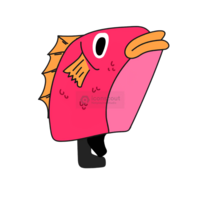
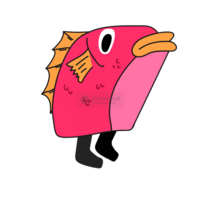
анимация персонажа

Changed region(s): [[0.18, 0.12, 0.9, 0.87], [0.39, 0.48, 0.45, 0.54]]

diff --git a/main.cpp b/main.cpp
@@ -10,18 +10,19 @@
 int main() 
 {
     sf::VideoMode desktop = sf::VideoMode::getDesktopMode();
-    int WIDTH = static_cast<const int>(desktop.width * 0.9);
-    int HEIGHT = (WIDTH * 943-WIDTH*943%1880)/1880;
+    int WIDTH = static_cast<int>(desktop.width * 0.9);
+    const int HEIGHT = (WIDTH * 943 - WIDTH * 943 % 1880) / 1880;
     //int WIDTH = 1880, HEIGHT = 943;
+    int i = 100;
     int x = WIDTH / 7;
     int y = HEIGHT / 7;
-    int x1 = WIDTH / 25;
-    int y1 = HEIGHT / 10;
-    int Coord[32][2] = { {x, y},{2 * x, y + 10},{3 * x, y + 20}, {4 * x, y + 30},{5 * x, y + 40},{6 * x, y + 50},{7 * x, y + 60},{8 * x, y + 70},
-    {8 * x, 2 * y},{7 * x, 2 * y + 10},{6 * x, 2 * y + 20},{5 * x, 2 * y + 30},{4 * x, 2 * y + 40},{3 * x, 2 * y + 50},{2 * x, 2 * y + 60}, {x, 2 * y + 70},
-    {x, 3 * y},{2 * x, 3 * y + 10},{3 * x, 3 * y + 20}, {4 * x, 3 * y + 30},{5 * x, 3 * y + 40},{6 * x, 3 * y + 50},{7 * x, 3 * y + 60},{8 * x, 3 * y + 70},
-    {8 * x, 4 * y},{7 * x, 4 * y + 10},{6 * x, 4 * y + 20},{5 * x, 4 * y + 30},{4 * x, 4 * y + 40},{3 * x, 4 * y + 50},{2 * x, 4 * y + 60}, {x, 4 * y + 70} };
-    
+    int s = WIDTH / 110;
+    int Coord[32][2] = { {WIDTH / 3.5, 8*s},{WIDTH / 3.5+9*s, 9*s},{WIDTH / 3.5 + 18 * s, 10*s}, {WIDTH / 3.5 + 27 * s, 11*s},{WIDTH / 3.5 + 36 * s, 12*s},
+        {WIDTH / 3.5 + 45 * s, 13*s},{WIDTH / 3.5 + 53 * s, 18 * s},{WIDTH / 3.5 + 48 * s, 25 * s},{WIDTH / 3.5 + 40 * s, 22 * s}, {WIDTH / 3.5 + 31 * s, 21 * s},{WIDTH / 3.5 + 22 * s, 20 * s},
+        {WIDTH / 3.5 + 13 * s, 19 * s},{WIDTH / 3.5 + 4 * s, 18 * s},{WIDTH / 3.5 -5 * s, 17 * s},{WIDTH / 3.5 - 12 * s,  22 * s},{WIDTH / 3.5 - 5 * s,  27 * s}, {WIDTH / 3.5 +4 * s,  28 * s},
+{WIDTH / 3.5 + 13 * s,  29 * s},{WIDTH / 3.5 + 22 * s,  30 * s},{WIDTH / 3.5 + 31* s,  31* s}, {WIDTH / 3.5 + 40 * s,  32 * s},{WIDTH / 3.5 + 48 * s,  36 * s},{WIDTH / 3.5 + 43 * s,  43 * s},{WIDTH / 3.5 + 34 * s,  42 * s},{WIDTH / 3.5 + 25 * s,  41 * s},
+{WIDTH / 3.5 + 16 * s,  40 * s},{WIDTH / 3.5 + 7 * s,  39 * s},{WIDTH / 3.5 -2 * s,  38 * s},{WIDTH / 3.5 - 9 * s,  44 * s},{WIDTH / 3.5 ,  47 * s}, {WIDTH / 3.5+9*s ,  48 * s}, {WIDTH / 3.5 +18  * s,  49 * s} };
+
     // Заведем переменные
     int My_Coins_Coord[4][2] = { {x1, y1}, {x1, 2 * y1}, {x1, 3 * y1}, {x1, 4 * y1} };
     int Other_Coins_Coord[4][2] = { {x1, 6 * y1}, { x1, 7 * y1}, {x1, 8 * y1}, {x1, 9 * y1} };
@@ -64,7 +65,7 @@ int main()
 
 
     sf::RenderWindow window(sf::VideoMode(WIDTH, HEIGHT), "XY");
-    GameState currentState = GameState::Start;
+    GameState currentState = GameState::Game;
     // ЗАГРУЗКА ТЕКСТУР
     std::filesystem::path folder = "Pictures";
     TextureManager textureManager;
@@ -91,8 +92,17 @@ int main()
     textureManager.loadTexture("f7", (folder / "f7.png").string());
     textureManager.loadTexture("f8", (folder / "f8.png").string());
     textureManager.loadTexture("f9", (folder / "f9.png").string());
+    textureManager.loadTexture("f10", (folder / "f10.png").string());
+    textureManager.loadTexture("f11", (folder / "f11.png").string());
+    textureManager.loadTexture("f12", (folder / "f12.png").string());
+    textureManager.loadTexture("f13", (folder / "f13.png").string());
+    textureManager.loadTexture("f14", (folder / "f14.png").string());
+    textureManager.loadTexture("f15", (folder / "f15.png").string());
+    textureManager.loadTexture("f16", (folder / "f16.png").string());
+    textureManager.loadTexture("f17", (folder / "f17.png").string());
+    textureManager.loadTexture("f18", (folder / "f18.png").string());
 
-    std::vector<std::string> textureNames = {"f1", "f2", "f3", "f4", "f5", "f6", "f7", "f8", "f9"};
+    std::vector<std::string> textureNames = {"f1", "f2", "f3", "f4", "f5", "f6", "f7", "f8", "f9", "f10", "f11" ,"f12", "f13", "f14", "f15", "f16", "f17", "f18"};
     Animation animation(textureManager, textureNames, 0.1f);
 
 
@@ -322,8 +332,9 @@ int main()
             renderGame(window);
         }
          
-        animation.update(200.0f); // Примерное время между кадрами (60 FPS
-        animation.draw(window, 100, 100); // Отображаем анимацию в координатах (100, 100)
+        animation.update(10000.0f); // Примерное время между кадрами (60 FPS
+        i += 10;
+        animation.draw(window, i, 100, 200, 200); // Отображаем анимацию в координатах (100, 100)
         
         for (auto& ripple : ripples) {
             ripple.update();

diff --git a/visual.cpp b/visual.cpp
@@ -21,7 +21,7 @@ const sf::Texture& TextureManager::getTexture(const std::string& name) {
 }
 
 //Класс для анимации изображений (смены картинок с определенной частотой)
-Animation::Animation(TextureManager& textureManager, const std::vector<std::string>& textureNames, float frameTime)
+Animation::Animation(TextureManager& textureManager, const std::vector<std::string>& textureNames, float frameTime )
     : frameTime(frameTime), currentFrame(0), elapsedTime(0.0f), isAnimating(true) {
     for (const auto& name : textureNames) {
         textures.push_back(&textureManager.getTexture(name)); // Сохраняем указатели на текстуры
@@ -36,11 +36,12 @@ void Animation::update(float deltaTime) {
         }
     }
 }
-void Animation::draw(sf::RenderWindow& window, float x, float y) {
+void Animation::draw(sf::RenderWindow& window, float x, float y, float width, float height) {
     if (!textures.empty()) {
         sf::Sprite sprite;
         sprite.setTexture(*textures[currentFrame]); // Разыменовываем указатель
         sprite.setPosition(x, y);
+        sprite.setScale(width / sprite.getLocalBounds().width, height / sprite.getLocalBounds().height);
         window.draw(sprite);
     }
 }

diff --git a/visual.h b/visual.h
@@ -20,7 +20,7 @@ public:
     Animation(TextureManager& textureManager, const std::vector<std::string>& textureNames, float frameTime);
 
     void update(float deltaTime);
-    void draw(sf::RenderWindow& window, float x, float y);
+    void draw(sf::RenderWindow& window, float x, float y, float width, float height);
     void setAnimating(bool animating);
 
 private:
